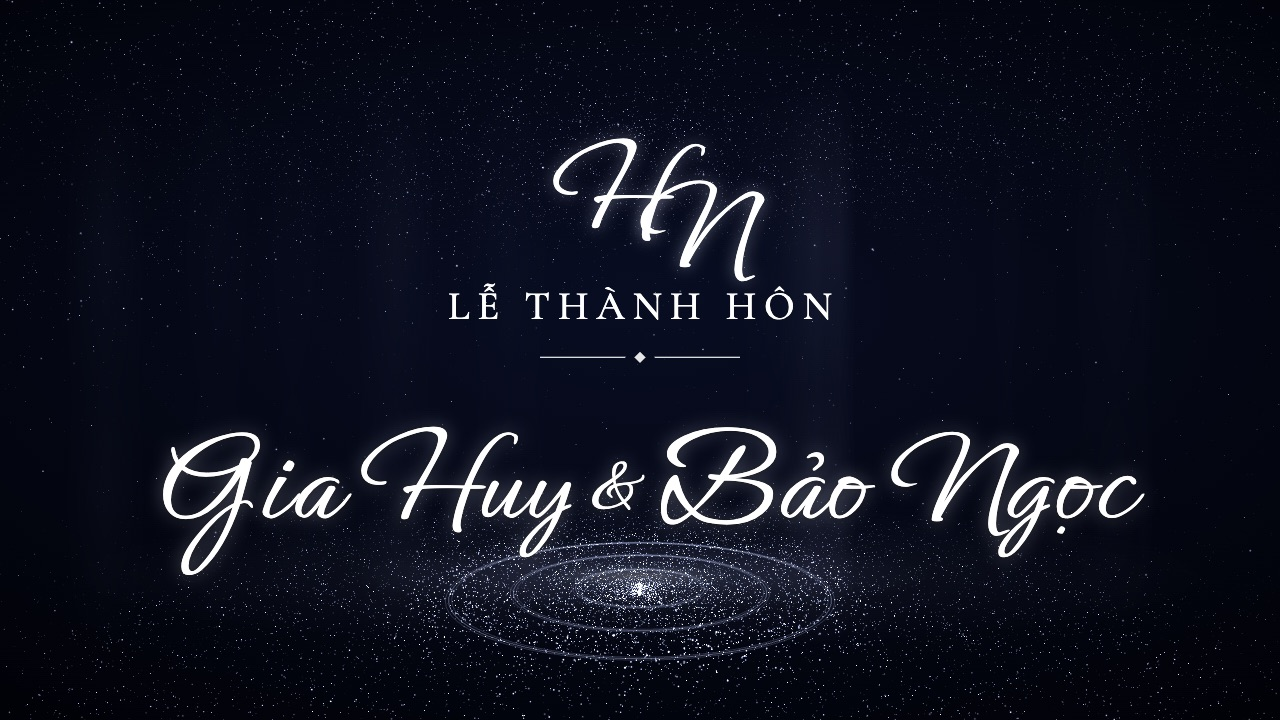
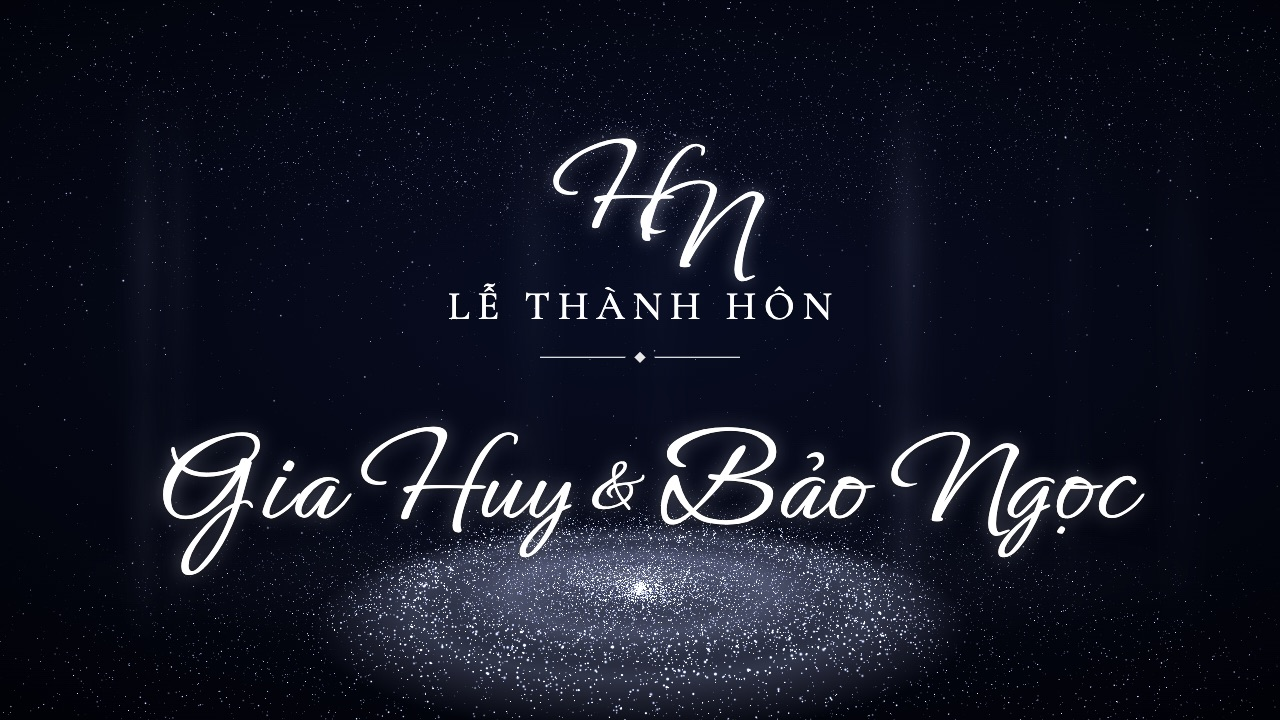
Màn LED "Sao rơi": sóng sau khi sao chạm sàn là một quầng sáng lam mềm toả từ tâm ra (bên trong sáng mờ, sáng nhất ở mép sóng rồi tan dần), kim tuyến trong vùng sóng sáng lên — thay cho các vòng tròn nét mảnh

Changed region(s): [[0.25, 0.7028, 0.75, 1.0]]

diff --git a/public/led/led.js b/public/led/led.js
@@ -758,7 +758,7 @@
       var flat = []; for (i = 0; i < 8; i++) flat.push(this.rip[i][0], this.rip[i][1], this.rip[i][2]);
       gl.uniform3fv(gl.getUniformLocation(this.pPts, 'uRip'), new Float32Array(flat));
       var sr = this.mode === 'saoroi';
-      gl.uniform4fv(gl.getUniformLocation(this.pPts, 'uRp'), sr ? [0.6, 0.16, 0.55, 0.85] : [0.62, 0.075, 0.95, 1]); // tốc độ lan, độ dày vòng, tắt dần, độ mạnh
+      gl.uniform4fv(gl.getUniformLocation(this.pPts, 'uRp'), sr ? [0.55, 0.24, 0.45, 1.5] : [0.62, 0.075, 0.95, 1]); // tốc độ lan, độ dày vòng, tắt dần, độ mạnh
       gl.uniform2fv(gl.getUniformLocation(this.pPts, 'uSt'), sr ? [0.72, 0.6] : [1, 1]); // Sao rơi: hạt nhỏ và dịu hơn
       gl.uniform3fv(gl.getUniformLocation(this.pPts, 'uCen'), sr ? [0.45, 1.5 * this.glow, 1.5] : [0, 0, 1]);    // sáng tâm sàn: cố định, bừng lên khi sao chạm, độ gom
       gl.bindBuffer(gl.ARRAY_BUFFER, this.bPts); attr(this.pPts, 'aP', 4, 16, 0);
@@ -771,28 +771,30 @@
       gl.uniform1f(gl.getUniformLocation(this.pDrop, 'uPoint'), 1);
       gl.drawArrays(gl.POINTS, 0, this.nDrop);
       }
-      // vòng sóng mặt nước (Sao rơi): mỗi lần sao chạm sàn có 3 gợn tròn đồng tâm lan ra, mảnh, mờ dần theo thời gian và khi ra tới rìa
+      // sóng sáng (Sao rơi): sau khi sao chạm sàn, một quầng sáng mềm toả từ tâm ra — bên trong sáng mờ, sáng nhất ở mép sóng rồi tan dần
+      // ra ngoài (không vẽ nét). Kim tuyến nằm trong mép sóng cũng sáng lên (shader ở trên) nên nhìn như sóng ánh sáng lan trên mặt nước.
       if (sr && this.rings.length) {
-        var RV = [], strips = 0, SEG = 96;
+        var RV = [], strips = 0, SEG = 72;
         for (i = this.rings.length - 1; i >= 0; i--) {
           var ra = t - this.rings[i];
-          if (ra > 5) { this.rings.splice(i, 1); continue; }
-          for (var w = 0; w < 3; w++) {
-            var a2 = ra - w * 0.42; if (a2 <= 0.02) continue;
-            var rad = 0.6 * a2, al = 0.8 * Math.exp(-a2 * 0.5) * (1 - w * 0.22) * (1 - Math.min(1, Math.max(0, (rad - 1.9) / 0.9)));
-            if (al < 0.01) continue;
-            for (var th = 0; th < 3; th++) { // 3 đường sát nhau → nét dày mềm hơn 1 điểm ảnh
-              var r3 = rad + (th - 1) * 0.012, al3 = al * (th === 1 ? 1 : 0.5);
-              for (var q3 = 0; q3 <= SEG; q3++) { var an3 = q3 / SEG * 6.2832; RV.push(Math.cos(an3) * r3, -0.94, Math.sin(an3) * r3, 1, al3); }
+          if (ra > 6) { this.rings.splice(i, 1); continue; }
+          for (var w = 0; w < 2; w++) {
+            var a2 = ra - w * 0.7; if (a2 <= 0.02) continue;
+            var rad = 0.55 * a2, fade = Math.exp(-a2 * 0.45) * (1 - w * 0.45) * (1 - Math.min(1, Math.max(0, (rad - 1.8) / 1.0)));
+            if (fade < 0.01) continue;
+            var pk = 0.5 * fade, inn = 0.24 * fade, wid = 0.22 + rad * 0.14;
+            var band = function (r1, al1, r2, al2) {
+              for (var q3 = 0; q3 <= SEG; q3++) { var an3 = q3 / SEG * 6.2832, cx = Math.cos(an3), sz = Math.sin(an3); RV.push(cx * r1, -0.945, sz * r1, 1, al1, cx * r2, -0.945, sz * r2, 1, al2); }
               strips++;
-            }
+            };
+            band(0, inn, Math.max(0.01, rad - wid * 0.5), inn * 1.4); band(Math.max(0.01, rad - wid * 0.5), inn * 1.4, rad, pk); band(rad, pk, rad + wid, 0);
           }
         }
         if (strips) {
           use(this.pDyn, 0);
           gl.bindBuffer(gl.ARRAY_BUFFER, this.bRing); gl.bufferData(gl.ARRAY_BUFFER, new Float32Array(RV), gl.DYNAMIC_DRAW);
           attr(this.pDyn, 'aPos', 3, 20, 0); attr(this.pDyn, 'aSA', 2, 20, 12);
-          for (i = 0; i < strips; i++) gl.drawArrays(gl.LINE_STRIP, i * (SEG + 1), SEG + 1);
+          for (i = 0; i < strips; i++) gl.drawArrays(gl.TRIANGLE_STRIP, i * (SEG + 1) * 2, (SEG + 1) * 2);
         }
       }
       // giọt sáng, loé, hạt bắn
